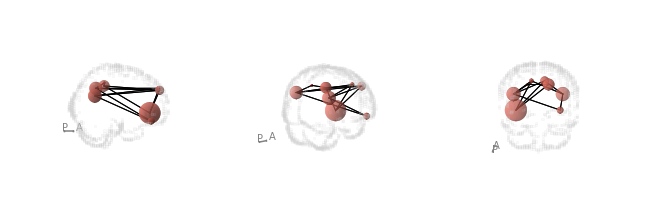
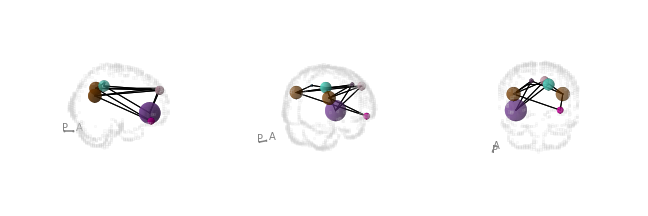
color_spheres

diff --git a/netonbrain/plotting/plot_spheres.py b/netonbrain/plotting/plot_spheres.py
@@ -1,8 +1,11 @@
 import matplotlib.pyplot as plt
 import numpy as np
 import pandas as pd 
+from matplotlib import cm
+import random
 
-def _plot_spheres(ax, nodes, nodecolor='salmon'):
+
+def _plot_spheres(ax, nodes):
   
   """
   Function that plots spheres in figure
@@ -20,7 +23,7 @@ def _plot_spheres(ax, nodes, nodecolor='salmon'):
   Nothing 
     
   """    
-    
+  
   if 'centrality' in nodes.keys():
       ss = 'centrality'
     
@@ -35,7 +38,15 @@ def _plot_spheres(ax, nodes, nodecolor='salmon'):
         y = r*np.sin(u)*np.sin(v)
         z = r*np.cos(v)
         
-        ax.plot_surface(c[0]+x, c[1]+y, c[2]+z, color=nodecolor, alpha=0.5*np.random.random()+0.5)
+        random.seed(row[ss])
+        
+        red = random.random()
+        g = random.random()
+        b = random.random()
+        
+        node_color = [red,g,b]
+                   
+        ax.plot_surface(c[0]+x, c[1]+y, c[2]+z, color=node_color, alpha=0.5*np.random.random()+0.5)
   else:
         r = 2      
 
@@ -47,7 +58,7 @@ if __name__=="__main__":
     nodez = np.array([30, 30, -16, -16, 35, 35, 44, 44])
     
     # Some psuedo_centrality measure to demonstrate size
-    centrality = np.array([30, 30, 50, 15, 20, 10, 5, 25])
+    centrality = np.array([30, 30, 30, 5, 5, 50, 50, 50])
     
     nodes = pd.DataFrame(data={'x': nodex, 'y': nodey, 'z': nodez, 'centrality': centrality})
     

diff --git a/netonbrain/plot.py b/netonbrain/plot.py
@@ -86,7 +86,7 @@ def plot(nodes, fig=None, ax=None, view='L', frames=1, edges=None, template=None
         if edges is not None: 
             _plot_edges(ax, nodes, edges, edgewidth=edgewidth, edgecolor=edgecolor)
         if nodes is not None: 
-            _plot_spheres(ax, nodes, nodecolor=nodecolor)
+            _plot_spheres(ax, nodes)
         if arrowaxis is not None:
             _add_axis_arrows(ax, dims=arrowaxis, length=arrowlength, origin=arroworigin)
 

diff --git a/examples/example1.py b/examples/example1.py
@@ -25,6 +25,12 @@ edges = np.zeros([n, n])
 edges[ind[0][eon[:m]], ind[1][eon[:m]]] = 1
 edges += edges.transpose()
 
+# edgesdf = pd.DataFrame()
+# edgesdf["i"],edgesdf["j"] = edges[:,0], edges[:,1]
+# weights = ['0.608', '0.475', '0.456', '0.578', '0.415', '0.953', '0.204', '0.124']
+# edgesdf['weight']=weights
+# edges = edgesdf
+
 ### Plot single view
 nob.plot(template='MNI152NLin2009cAsym', templatestyle='glass',
                     view='R', 
